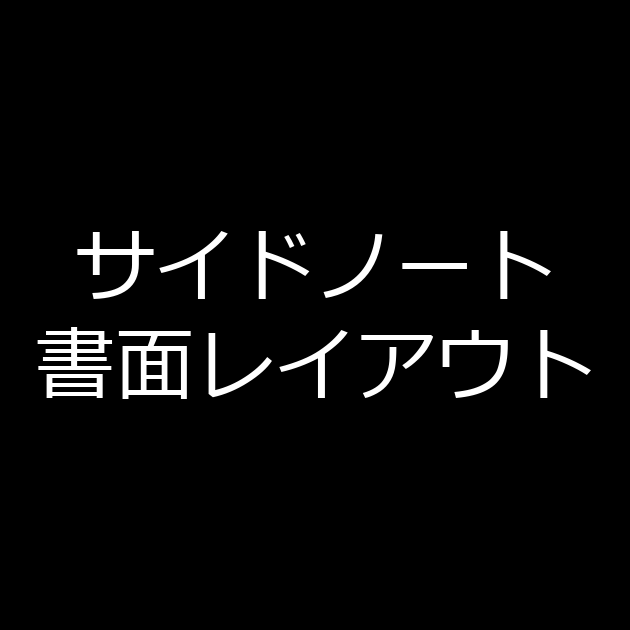
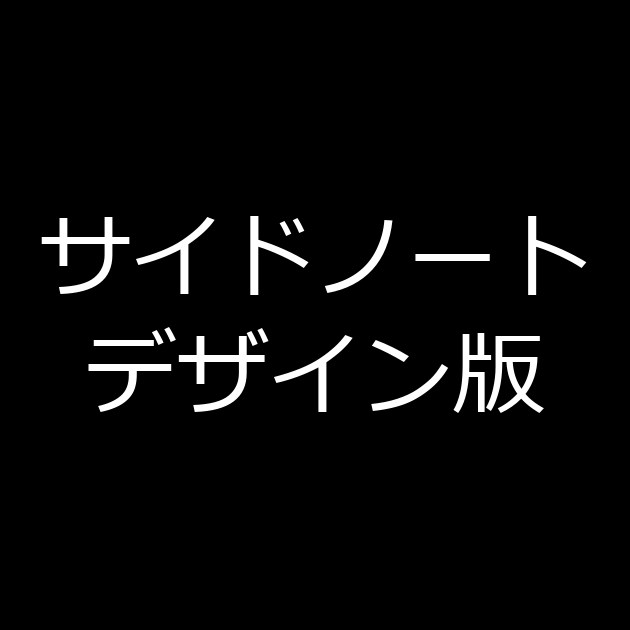
Update sidenote-pdf-doc

diff --git a/public/index.html b/public/index.html
@@ -41,7 +41,7 @@
   <div class="hero-inner">
     <div class="hero-left">
       <h1 class="hero-title">サイドノート作成ツール</h1>
-      <p class="hero-desc">書面レイアウト版。ぶら下げインデントなどで整えます。</p>
+      <p class="hero-desc">書面レイアウト版。<br>インデント・ぶら下げ・傍点など。</p>
       <a class="btn-outline hero-cta" href="https://sidenote-pdf.pages.dev/help.html#doc">使い方を読む</a>
     </div>
 

diff --git a/scripts/make_og_image.py b/scripts/make_og_image.py
@@ -2,87 +2,191 @@
 
 Requires Pillow and a Japanese-capable TrueType font (Meiryo on Windows).
 Run: python scripts/make_og_image.py
+
+- 横長（1200x630 / Twitterのlargeカード）は、アプリの実際の画面に寄せた絵にする。
+  左＝アプリ名と説明、右＝本文とサイドノートのミニ画面（サイトのヒーローと同じ考え方）。
+- 正方形（630x630 / summaryカード・小さいサムネイル）は、小さく出ても読めるよう
+  黒地に白抜きの2行だけにする。
 """
 
 from pathlib import Path
 from PIL import Image, ImageDraw, ImageFont
 
 FONT_PATH = r"C:\Windows\Fonts\meiryo.ttc"
+FONT_BOLD_PATH = r"C:\Windows\Fonts\meiryob.ttc"   # meiryo.ttcのindex1はイタリックなので別ファイル
 OUT_DIR = Path(__file__).resolve().parent.parent / "public"
 
+# ---- このアプリ固有の設定（4本のツールで、ここだけが違う） ----
+TITLE = "サイドノート作成ツール"
+DESC_LINES = ['書面レイアウト版。', 'インデント・ぶら下げ・傍点など。']
+SQUARE_LINES = ['サイドノート', 'デザイン版']
+MOCK = "indent"            # plain / indent / md / web
+URL = "sidenote-pdf-doc.pages.dev"
 
-def measure(draw, text, font_size):
-    font = ImageFont.truetype(FONT_PATH, font_size, index=0)
-    b = draw.textbbox((0, 0), text, font=font)
-    return font, b
+# ---- 配色（サイトのstyle.cssのトークンと同じ値） ----
+BG = "#fafafa"
+TEXT = "#0a0a0a"
+MUTED = "#4d4d4d"
+BORDER = "#e5e5e5"
+BODY_BG = "#f2f2f2"
+LINE = "#eceef1"
+LINE_STRONG = "#d7dade"
+NUM = "#ff4b4b"
+NOTE_IMPORTANT = "#ffdcdc"
 
 
-def fit(draw, text, avail_w, start_size, cap=None):
-    font_size = start_size if cap is None else min(start_size, cap)
-    while font_size > 10:
-        font, b = measure(draw, text, font_size)
-        if b[2] - b[0] <= avail_w:
-            return font, b, font_size
-        font_size -= 2
-    return font, b, font_size
+def font(size, bold=False):
+    return ImageFont.truetype(FONT_BOLD_PATH if bold else FONT_PATH, size, index=0)
+
+
+def bar(d, x, y, w, h, color=LINE, radius=None):
+    d.rounded_rectangle([x, y, x + w, y + h], radius=radius if radius is not None else h / 2, fill=color)
+
+
+def note_num(d, x, y, text, size=15):
+    d.text((x, y), text, font=font(size, bold=True), fill=NUM)
+
+
+# ---- 右側のミニ画面（本文＋サイドノート） ----
+def draw_mock(d):
+    x0, y0, x1, y1 = 664, 156, 1144, 466
+    d.rounded_rectangle([x0, y0, x1, y1], radius=18, fill="#ffffff", outline=BORDER, width=1)
+
+    # ブラウザのバー
+    d.rounded_rectangle([x0, y0, x1, y0 + 46], radius=18, fill="#f3f3f3")
+    d.rectangle([x0, y0 + 28, x1, y0 + 46], fill="#f3f3f3")
+    d.line([x0, y0 + 46, x1, y0 + 46], fill=BORDER, width=1)
+    for i, c in enumerate(("#ff5f57", "#ffbd2e", "#28c840")):
+        cx = x0 + 24 + i * 20
+        d.ellipse([cx - 6, y0 + 17, cx + 6, y0 + 29], fill=c)
+    d.rounded_rectangle([x0 + 92, y0 + 12, x1 - 24, y0 + 34], radius=11, fill="#ffffff", outline=BORDER, width=1)
+    d.text((x0 + 106, y0 + 16), URL, font=font(13), fill="#71717a")
+
+    # 本文の紙
+    d.rectangle([x0 + 1, y0 + 47, x1 - 1, y1 - 1], fill=BODY_BG)
+    px0, py0, px1, py1 = x0 + 22, y0 + 68, x1 - 22, y1 - 22
+    d.rounded_rectangle([px0, py0, px1, py1], radius=12, fill="#ffffff", outline=BORDER, width=1)
+
+    left = px0 + 26
+    side = px1 - 118          # サイドノート列の左端
+    doc_w = side - left - 22
+    y = py0 + 26
+    pitch = 24
+
+    def line(w_ratio, indent=0, color=LINE, num=None, height=10, num_gap=8):
+        nonlocal y
+        w = int(doc_w * w_ratio)
+        bar(d, left + indent, y, w, height, color)
+        if num:
+            note_num(d, left + indent + w + num_gap, y - 4, num)
+        y += pitch
+
+    if MOCK == "indent":
+        # 項番のブロック＋段階的な字下げ＋ぶら下げ行＋下線行
+        def numbered(w_ratio, indent, num=None):
+            nonlocal y
+            bar(d, left + indent, y, 16, 10, "#c9ccd2", radius=3)
+            w = int(doc_w * w_ratio)
+            bar(d, left + indent + 22, y, w, 10)
+            if num:
+                note_num(d, left + indent + 22 + w + 8, y - 4, num)
+            y += pitch
+
+        line(0.88)
+        numbered(0.68, 0)
+        line(0.60, 38)                      # ぶら下げの2行目
+        numbered(0.56, 26, num="1")
+        bar(d, left + 64, y, int(doc_w * 0.46), 10)
+        d.line([left + 64, y + 13, left + 64 + int(doc_w * 0.46), y + 13], fill="#b9bdc5", width=2)
+        y += pitch
+        numbered(0.62, 0, num="2")
+    elif MOCK == "md":
+        line(0.52, color=LINE_STRONG, height=13)      # 見出し
+        line(0.90)
+        line(0.62, num="1")
+        for w in (0.56, 0.46):                        # 箇条書き
+            d.ellipse([left + 4, y + 3, left + 10, y + 9], fill="#b9bdc5")
+            bar(d, left + 20, y, int(doc_w * w), 10)
+            y += pitch
+        d.rounded_rectangle([left, y, left + int(doc_w * 0.86), y + 30], radius=6, fill="#f0f1f3")
+        d.rounded_rectangle([left, y, left + 3, y + 30], radius=2, fill=LINE_STRONG)
+        y += 44
+        line(0.44, num="2")
+    elif MOCK == "web":
+        # 左にサイト内メニュー、右が本文
+        nav_w = 64
+        ny = py0 + 30
+        for w, c in ((0.8, LINE), (0.64, LINE), (0.74, "#c9ccd2"), (0.56, LINE)):
+            bar(d, left, ny, int(nav_w * w), 7, c)
+            ny += 18
+        left += nav_w + 18
+        doc_w = side - left - 22
+        line(0.56, color=LINE_STRONG, height=13)
+        line(0.92)
+        line(0.64, num="1")
+        line(0.86)
+        line(0.48, num="2")
+    else:
+        line(0.92)
+        line(0.78)
+        line(0.60, num="1")
+        line(0.85)
+        line(0.40, num="2")
+        line(0.70)
+
+    # サイドノート2枚（下の1枚は「重要」＝赤）
+    for i, (ny, color) in enumerate(((py0 + 30, LINE), (py0 + 30 + 46, NOTE_IMPORTANT))):
+        note_num(d, side, ny - 4, str(i + 1))
+        bar(d, side + 16, ny - 2, 92, 18, color, radius=5)
+
+
+def make_large():
+    w, h = 1200, 630
+    img = Image.new("RGB", (w, h), BG)
+    d = ImageDraw.Draw(img)
+
+    # 左：アプリ名＋説明（サイトのヒーローと同じ並び）
+    title_font = font(44, bold=True)
+    tb = d.textbbox((0, 0), TITLE, font=title_font)
+    desc_font = font(24)
+    line_h = 40
+    total = (tb[3] - tb[1]) + 28 + line_h * len(DESC_LINES)
+    top = (h - total) / 2
+    d.text((72, top - tb[1]), TITLE, font=title_font, fill=TEXT)
+    ty = top + (tb[3] - tb[1]) + 28
+    for text in DESC_LINES:
+        d.text((72, ty), text, font=desc_font, fill=MUTED)
+        ty += line_h
+
+    draw_mock(d)
+    img.save(OUT_DIR / "og-image-large.png")
 
 
 def make_square():
     size = 630
-    pad_x = 30
-    line1, line2 = "サイドノート", "書面レイアウト"
+    pad_x = 34
+    line1, line2 = SQUARE_LINES
 
     scratch = ImageDraw.Draw(Image.new("RGB", (10, 10)))
     avail_w = size - 2 * pad_x
     font_size = 260
     while font_size > 10:
-        font, b1 = measure(scratch, line1, font_size)
-        _, b2 = measure(scratch, line2, font_size)
-        w = max(b1[2] - b1[0], b2[2] - b2[0])
-        if w <= avail_w:
+        f = font(font_size)
+        b1 = scratch.textbbox((0, 0), line1, font=f)
+        b2 = scratch.textbbox((0, 0), line2, font=f)
+        if max(b1[2] - b1[0], b2[2] - b2[0]) <= avail_w:
             break
         font_size -= 2
 
     h1, h2 = b1[3] - b1[1], b2[3] - b2[1]
     gap = round(font_size * 0.35)
-    total_h = h1 + h2 + gap
-    top = (size - total_h) / 2
+    top = (size - (h1 + h2 + gap)) / 2
 
     img = Image.new("RGB", (size, size), "#000000")
     d = ImageDraw.Draw(img)
-    x1 = (size - (b1[2] - b1[0])) / 2 - b1[0]
-    d.text((x1, top - b1[1]), line1, font=font, fill="#ffffff")
-    x2 = (size - (b2[2] - b2[0])) / 2 - b2[0]
-    d.text((x2, top + h1 + gap - b2[1]), line2, font=font, fill="#ffffff")
-
+    d.text(((size - (b1[2] - b1[0])) / 2 - b1[0], top - b1[1]), line1, font=f, fill="#ffffff")
+    d.text(((size - (b2[2] - b2[0])) / 2 - b2[0], top + h1 + gap - b2[1]), line2, font=f, fill="#ffffff")
     img.save(OUT_DIR / "og-image-square.png")
-
-
-def make_large():
-    w, h = 1200, 630
-    pad_x_title, pad_x_sub, gap = 90, 90, 40
-    title = "サイドノート作成ツール 書面レイアウト版"
-    subtitle = "インデント・ぶら下げ・下線・傍点で体裁を整え、サイドノートで検討メモ"
-
-    scratch = ImageDraw.Draw(Image.new("RGB", (10, 10)))
-    title_font, tb, title_size = fit(scratch, title, w - 2 * pad_x_title, 200)
-    sub_font, sb, _ = fit(
-        scratch, subtitle, w - 2 * pad_x_sub, 120, cap=round(title_size * 0.38)
-    )
-
-    tw, th = tb[2] - tb[0], tb[3] - tb[1]
-    sw, sh = sb[2] - sb[0], sb[3] - sb[1]
-    total_h = th + gap + sh
-    top = (h - total_h) / 2
-
-    img = Image.new("RGB", (w, h), "#000000")
-    d = ImageDraw.Draw(img)
-    tx = (w - tw) / 2 - tb[0]
-    d.text((tx, top - tb[1]), title, font=title_font, fill="#ffffff")
-    sx = (w - sw) / 2 - sb[0]
-    d.text((sx, top + th + gap - sb[1]), subtitle, font=sub_font, fill="#cfcfcf")
-
-    img.save(OUT_DIR / "og-image-large.png")
 
 
 if __name__ == "__main__":
